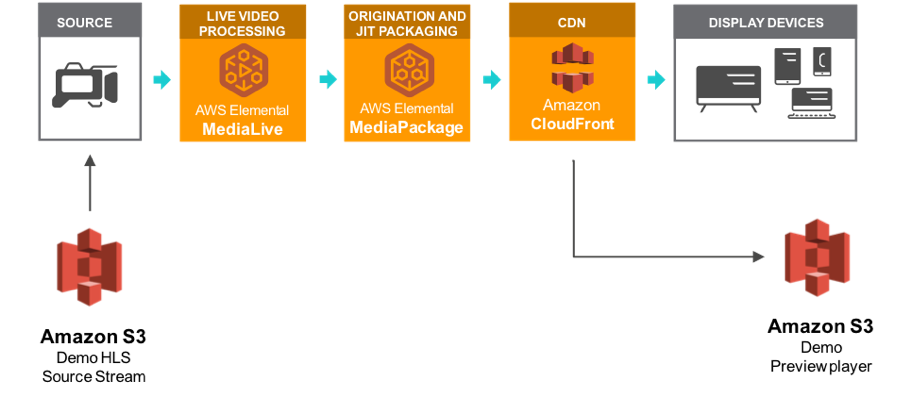
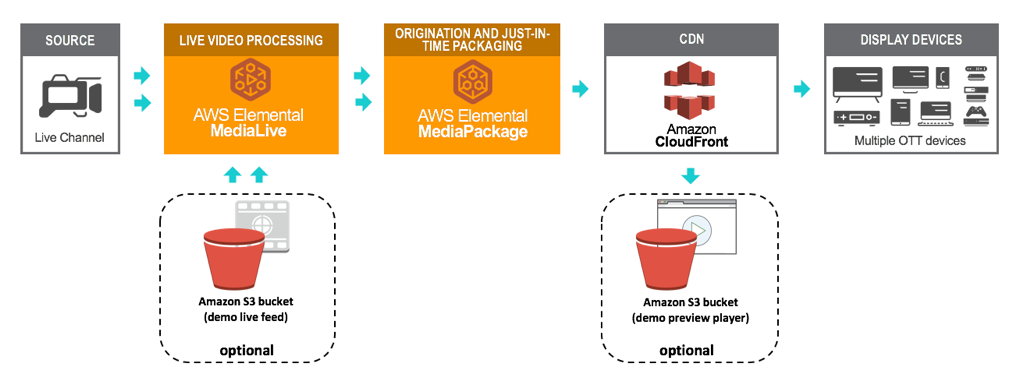
feature/V47669116 demo content update, fix for RTMP inputs, rename 408p profile to 540
feature/V47669116

demo

diff --git a/source/custom-resource-js/lib/medialive/index.js b/source/custom-resource-js/lib/medialive/index.js
@@ -87,11 +87,21 @@ let CreatePushInput = function(config) {
 				let params = {
 					InputSecurityGroups: [data.SecurityGroup.Id],
 					Name: config.StreamName,
-					Destinations: [{
-						StreamName: config.StreamName
-					}],
 					Type: config.Type
 				};
+
+        //Feature/xxxx RTMP Requires Stream names for each input Destination.
+        if (config.Type === 'RTMP_PUSH') {
+          params.Destinations = [
+            {
+        		StreamName: config.StreamName+'/primary'
+        	  },
+        	  {
+        		StreamName: config.StreamName+'/secondary'
+        	 }
+         ];
+        }
+
 				medialive.createInput(params, function(err, data) {
 					if (err) reject(err);
 					else {
@@ -117,7 +127,7 @@ let CreateChannel = async (config) => {
   });
   const encode1080p = require('./encoding-profiles/medialive-1080p');
   const encode720p = require('./encoding-profiles/medialive-720p');
-  const encode480p = require('./encoding-profiles/medialive-480p');
+  const encode540p = require('./encoding-profiles/medialive-540p');
   let responseData;
   try {
     // Define baseline Paameters for cheate channel
@@ -164,7 +174,7 @@ let CreateChannel = async (config) => {
       default:
         params.InputSpecification.Resolution = 'SD';
         params.InputSpecification.MaximumBitrate = 'MAX_10_MBPS';
-        params.EncoderSettings = encode480p;
+        params.EncoderSettings = encode540p;
     }
     // Set the demo input to loop as the demo video is only one a minute long.
     if (config.Type === 'DEMO') params.InputAttachments[0].InputSettings = {
@@ -200,7 +210,15 @@ let DeleteChannel = async (ChannelId) => {
     // wait 30 seconds
     await sleep(30000);
     // delete channel
-    await medialive.deleteChannel(params).promise();
+    let data = await medialive.deleteChannel(params).promise();
+    // wait 10 seconds
+    await sleep(10000);
+    // delete input
+    params = {
+      InputId:data.InputAttachments[0].InputId
+    };
+    await medialive.deleteInput(params).promise();
+
   }
   catch (err) {
     throw err;

diff --git a/source/custom-resource-js/index.js b/source/custom-resource-js/index.js
@@ -92,9 +92,6 @@
  					break;
 
         // FEATURE/P15424610:: Removed Metrics as create/delete captured by CFN metrics
-
-
-
  				default:
 					// medialive inputs and mediapackage endpoints are deleted as part of
 					// the the channel deletes so not included here, sending default success response

diff --git a/source/custom-resource-py/lib/medialive.py b/source/custom-resource-py/lib/medialive.py
@@ -32,16 +32,26 @@ def create_push_input(config):
             }
         ]
     )
+
+    #Feature/xxxx RTMP Requires Stream names for each input Destination.
+    if config['Type'] == 'RTMP_PUSH':
+        Destination = [
+            {
+                'StreamName': config['StreamName']+'primary'
+            },
+            {
+                'StreamName': config['StreamName']+'secondary'
+            }
+        ]
+    else:
+        Destination = []
+
     response = medialive.create_input(
         InputSecurityGroups=[
             sg['SecurityGroup']['Id'],
         ],
         Name = config['StreamName'],
-        Destinations=[
-            {
-                'StreamName': config['StreamName']
-            }
-        ],
+        Destinations= Destination,
         Type=config['Type']
     )
     responseData['Id'] = response['Input']['Id']
@@ -65,7 +75,7 @@ def create_pull_input(config):
     # store input u/p in SSM
     if config['PriUser']:
         Sources[0]['Username'] = config['PriUser']
-        Sources[0]['Username'] = config['PriUser']
+        #Sources[0]['Username'] = config['PriUser']
         ssm.put_parameter(
             Name = config['PriUser'],
             Description = 'Live Stream solution Primary input credentials',
@@ -75,7 +85,7 @@ def create_pull_input(config):
     # store input u/p in SSM
     if config['SecUser']:
         Sources[1]['Username'] = config['SecUser']
-        Sources[1]['Username'] = config['SecUser']
+        #Sources[1]['Username'] = config['SecUser']
         ssm.put_parameter(
             Name = config['PriUser'],
             Description = 'Live Stream solution Primary input credentials',
@@ -107,7 +117,7 @@ def create_channel(config):
     else:
         res = 'SD'
         bitrate = 'MAX_10_MBPS'
-        profile = './encoding-profiles/medialive-480p.json'
+        profile = './encoding-profiles/medialive-540p.json'
 
     with open(profile) as encoding:
         EncoderSettings = json.load(encoding)

diff --git a/source/custom-resource-py/lambda.py b/source/custom-resource-py/lambda.py
@@ -27,7 +27,7 @@ import lib.cfnresponse as cfn
 import lib.mediapackage as MediaPackage
 import lib.medialive as MediaLive
 import lib.demo as Demo
-import lib.metrics as MetricsHelper
+import lib.metrics as Metrics
 
 def handler(event, context):
     #Each resource returns a promise with a json object to return cloudformation.

diff --git a/README.md b/README.md
@@ -6,75 +6,104 @@ How to implement Live streaming on AWS  at scale leveraging AWS Elemental MediaL
 
 ![Architecture](architecture.png)
 
+**AWS Elemental MediaLive**<br/>
+Is configured to ingest 2 live feeds and transcode the content into multiple adaptive bitrate HLS content.  The solution can be configured to ingest RTP RTMP and HLS streams and will apply 1 of 3 encoding profiles which include bitrates of 1080p through 270p. The encoding profile is set at launch and is based on the source resolution (See Encoding Profiles below).
+
+**AWS Elemental MediaPackage**<br/>
+Ingests the MediaLive Output and package the Live stream into HLS, DASH and MSS formats that are delivered through 3 MediaPackage custom endpoints.
+
+**Amazon CloudFront**<br/>
+Is configured with the three MediaPackage custom endpoints as the Origins for the distribution. CloudFront then enable the live stream content to be delivered globally and at scale.
+
+**Optional Demo Deployment**<br/>
+As part of the CloudFormation template a Demo HTML preview player is deployed to an Amazon S3 bucket which is a single page HTML/JavaScript application that will playback the HLS, DASH and MMS streams. In addition, the solution can be configured to ingest a Demo HLS feed hosted on AWS.   
+
+
 ## Deployment
-The solution is deployed using a CloudFormation template with a lambda backed custom resource which is available in both NodeJS and Python.
+The solution is deployed using a CloudFormation template with a lambda backed custom resource, available in both NodeJS and Python.
 For details on deploying the solution please see the details on the Solution home page:  [Live Streaming on AWS](https://aws.amazon.com/answers/media-entertainment/live-streaming-on-aws/)
+
+## Encoding Profiles
+To solution Configures AWS Elemental MediaLive with one of three encoding profiles based on the source resolution defined at launch as a CloudFormation parameter. The three options are 1080, 720, 540 and correspond to the following encoding profiles:
+
+**1080p Profile::**<br/>
+1080p@6500kbps, 720p@5000kbps, 720p@3300kbps, 540p@2000kbps, 432p@1200kbps, 360p@800kbps, 270@400kbps, 234p@200kbps.
+
+**720p Profile::**<br/>
+720p@5000kbps, 720p@3300kbps, 540p@2000kbps, 432p@1200kbps, 360p@800kbps, 270@400kbps, 234p@200kbps.
+
+**540p Profile::**<br/>
+ 540p@2000kbps, 432p@1200kbps, 360p@800kbps, 270@400kbps, 234p@200kbps.
+
+The profiles are defined in JSON and and can be found in:
+```
+  source/custom-resource-js/lib/medialive/encoding-profiles/
+  source/custom-resource-py/encoding-profiles/
+```
 
 ## Source code
 
-The AWS Lambda source code is available in node.js 8.10 and Python 3.6
-
-**source/custom-resources-js:** \
+**source/custom-resources-js::**<br/>
 A NodeJS based  Lambda function used as a custom resource for deploying MediaLive and MediaPackage resources through CloudFormation.
 
-**source/custom-resources-py:** \
+**source/custom-resources-py::**<br/>
 A Python based  Lambda function used as a custom resource for deploying MediaLive and MediaPackage resources through CloudFormation.
 
-**source/console**: \
+**source/console::**<br/>
 A single page application used to demo playback of the live stream. This is deployed to an AWS S3 bucket as part of the CloudFormation deployment.
 
 
 ## Creating a custom Build
 To solution can be deployed through the CloudFormation template available on the solution home page: [Live Streaming on AWS](https://aws.amazon.com/answers/media-entertainment/live-streaming-on-aws/).
- To make changes to the solution, download or clone this repo, update the source code and then run the deployment/build-s3-dist.sh script to deploy the updated Lambda code to an S3 bucket in your account:
+ To make changes to the solution, download or clone this repo, update the source code and then run the deployment/build-s3-dist.sh script to deploy the updated Lambda code to an S3 bucket in your account.
 
 ### Pre-requirements:
 * [AWS Command Line Interface](https://aws.amazon.com/cli/)
-* Node.js 8.x
+* Node.js 8.x or Python 3.x
 
-### 1. Create the deployment packages:
-run the build-s3-dist.sh script passing in 2 variables:
+### 1. Create an Amazon S3 Bucket.
+The CloudFormation template is configured to pull the Lambda deployment packages from Amazon S3 bucket in the region the template is being launched in. Create a bucket in the desired region with the region name appended to the name of the bucket. eg: for us-east-1 create a bucket named: ```bucket-us-east-1```
 
-* CODEBUCKET = the name of the S3 bucket (do NOT include the -region extension, this is added by the CloudFormation template).
-* CODEVERSION = this will be the subfolder containing the Lambda deployment packages.
+### 2. Create the deployment packages:
+Run the build-s3-dist.sh script, passing in 2 variables:
+* CODEBUCKET = the name of the S3 bucket (do NOT include the -region extension)
+* CODEVERSION = this will be the subfolder containing the code.
 
-This script create a dist/ folder with an updated copy of the CloudFormation template and the Lambda deployment packages.
+This will:
+* copies the console files to ./deployment/dist/.
+* copies the CloudFormation template to ./deployment/dist/ and updates the source code mappings.
+* zips and copies the source code to ./deployment/dist/
 
-#### Example:
-
-To deploy the code to us-east-1 create a bucket in S3,  **bucket-us-east-1**  then run the build script:
-
+Example:
 ```
   cd deployment/
   ./build-s3-dist.sh bucket 1.01
 ```
-
- This will deploy the source code th  s3://bucket-us-east-1/live-streaming-on-aws/1.01/.
-
-
- ### 2. Upload the Code to Amazon S3 :
- Use the AWS CLI to sync the lambda code and demo console files to amazon S3.
-
- #### Example
-
- ```
- aws s3 sync .dist/ s3://bucket-us-east-1/live-streaming-on-aws/1.01/.
- ```
-
- ### 3. Launch the CloudFormation template.
-
-Launch the updated CloudFormation template from the dist/ folder. This copy of the template has the updated source code mappings.
-
-#### Example:
-
+ This will deploy the source code to:
 ```
-Mappings:
+  s3://bucket-us-east-1/live-streaming-on-aws/1.01/.
+```
+And update the CloudFormation template mappings:
+```
   SourceCode:
     General:
       S3Bucket: bucket
       KeyPrefix: live-streaming-on-aws/1.01
-
 ```
+
+ ### 3. Upload the Code to Amazon S3.
+
+Use the AWS CLI to sync the lambda code and demo console files to amazon S3:
+
+ ```
+   cd deployment/
+   aws s3 sync .dist/ s3://bucket-us-east-1/live-streaming-on-aws/1.01/.
+ ```
+
+ ### 4. Launch the CloudFormation template.
+
+Launch the updated CloudFormation template from ```deployment/dist/``` folder.
+
 
 ***
 
